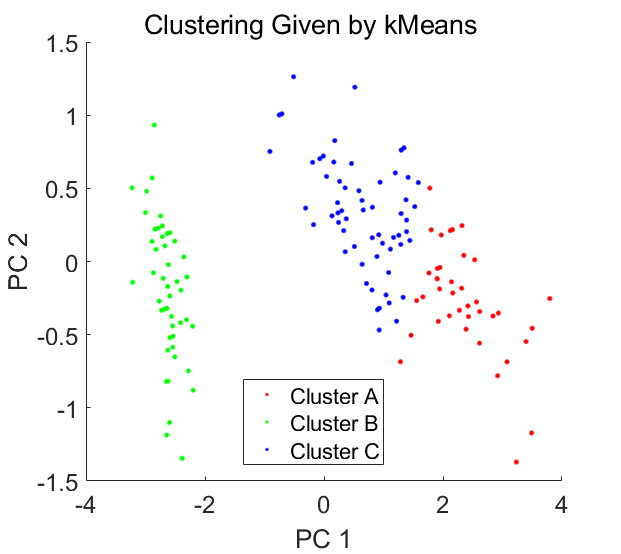
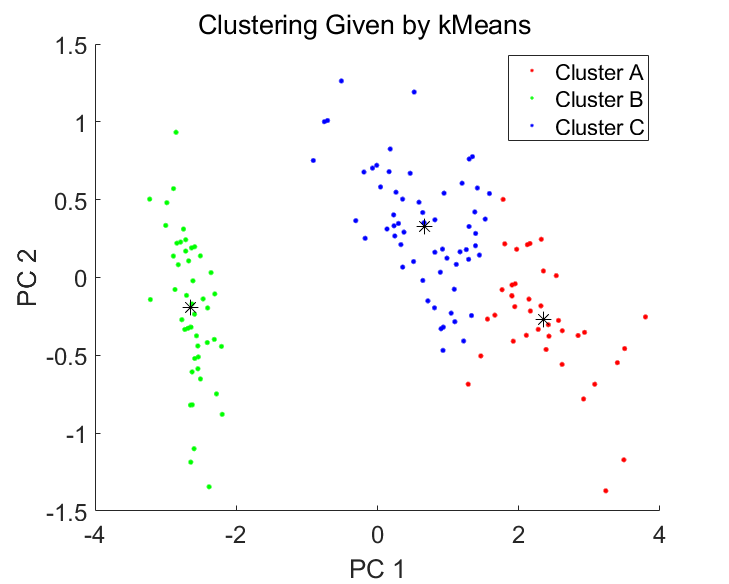
Better Graphs -Stars for means -Boxes for medoids

diff --git a/IrisAnalysis.m b/IrisAnalysis.m
@@ -4,6 +4,7 @@
 %Clear vars
 clc
 clear all
+clf
 
 %Load IRIS data
 load IrisData.mat
@@ -42,7 +43,7 @@ hold off
 %Plot the clustering via the first two PCs
 figure(3)
 distMatrix = dMatrix(Xc, @norm2);
-I1 = kMedoids_distMatrix(k, distMatrix, tau, maxDepth);
+[I1, iC1] = kMedoids_distMatrix(k, distMatrix, tau, maxDepth);
 k1 = Z2(:, I1 == 1);
 k2 = Z2(:, I1 == 2);
 k3 = Z2(:, I1 == 3);
@@ -51,11 +52,16 @@ hold on
 scatter(k1(1,:), k1(2,:),125,'r.')
 scatter(k2(1,:), k2(2,:),125,'g.')
 scatter(k3(1,:), k3(2,:),125,'b.')
-legend("Cluster A","Cluster B","Cluster C");
+scatter(Z2(1,iC1(1,1)), Z2(2,iC1(1,1)),150,'ks')
+scatter(Z2(1,iC1(1,2)), Z2(2,iC1(1,2)),150,'ks')
+scatter(Z2(1,iC1(1,3)), Z2(2,iC1(1,3)),150,'ks')
+legend("Cluster A","Cluster B", "Cluster C");
 xlabel("PC 1")
 ylabel("PC 2"); 
 set(gca,'FontSize', 18);
 sgtitle("Clustering Given by kMedoids", 'FontSize', 20)
+
+
 hold off
 
 disp("Clustering Matrix for kMedoids");
@@ -65,7 +71,8 @@ disp(" ");
 %Cluster using kMeans
 %Plot the clustering via the first two PCs
 figure(4)
-[Im, iC] = kMeans(k, Xc, tau, maxDepth, @norm2);
+[Im, C] = kMeans(k, Xc, tau, maxDepth, @norm2);
+C2 = [U(:,1) U(:,2)]' * C;
 k1 = Z2(:, Im == 1);
 k2 = Z2(:, Im == 2);
 k3 = Z2(:, Im == 3);
@@ -73,6 +80,9 @@ hold on
 scatter(k1(1,:), k1(2,:),125,'r.')
 scatter(k2(1,:), k2(2,:),125,'g.')
 scatter(k3(1,:), k3(2,:),125,'b.')
+scatter(C2(1,1), C2(2,1),125,'k*')
+scatter(C2(1,2), C2(2,2),125,'k*')
+scatter(C2(1,3), C2(2,3),125,'k*')
 xlabel("PC 1")
 ylabel("PC 2"); 
 set(gca,'FontSize', 18);

diff --git a/WineAnalysis.m b/WineAnalysis.m
@@ -42,7 +42,7 @@ hold off
 %Plot the clustering via the first two PCs
 figure(3)
 distMatrix = dMatrix(X, @norm2);
-I1 = kMedoids_distMatrix(k, distMatrix, tau, maxDepth);
+[I1, iC] = kMedoids_distMatrix(k, distMatrix, tau, maxDepth);
 k1 = Z2(:, I1 == 1);
 k2 = Z2(:, I1 == 2);
 k3 = Z2(:, I1 == 3);
@@ -51,6 +51,9 @@ hold on
 scatter(k1(1,:), k1(2,:),125,'r.')
 scatter(k2(1,:), k2(2,:),125,'g.')
 scatter(k3(1,:), k3(2,:),125,'b.')
+scatter(Z2(1,iC(1,1)), Z2(2,iC(1,1)),150,'ks')
+scatter(Z2(1,iC(1,2)), Z2(2,iC(1,2)),150,'ks')
+scatter(Z2(1,iC(1,3)), Z2(2,iC(1,3)),150,'ks')
 legend("Cluster A","Cluster B","Cluster C");
 xlabel("PC 1")
 ylabel("PC 2"); 
@@ -65,7 +68,7 @@ disp(" ");
 %Cluster using kMeans
 %Plot the clustering via the first two PCs
 figure(4)
-[Im, iC] = kMeans(k, X, tau, maxDepth, @norm2);
+[Im, C] = kMeans(k, X, tau, maxDepth, @norm2);
 k1 = Z2(:, Im == 1);
 k2 = Z2(:, Im == 2);
 k3 = Z2(:, Im == 3);
